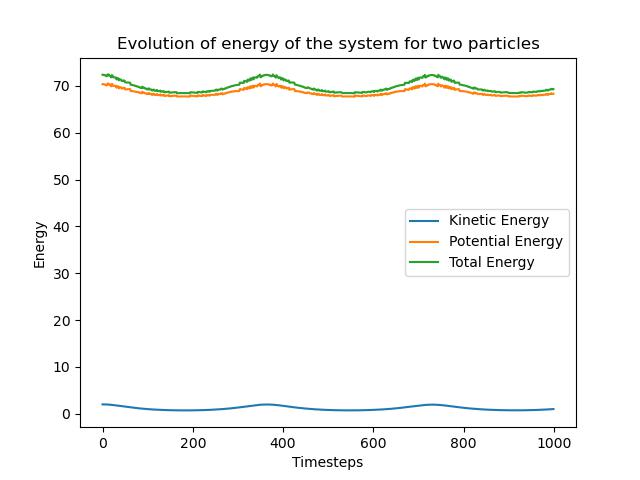
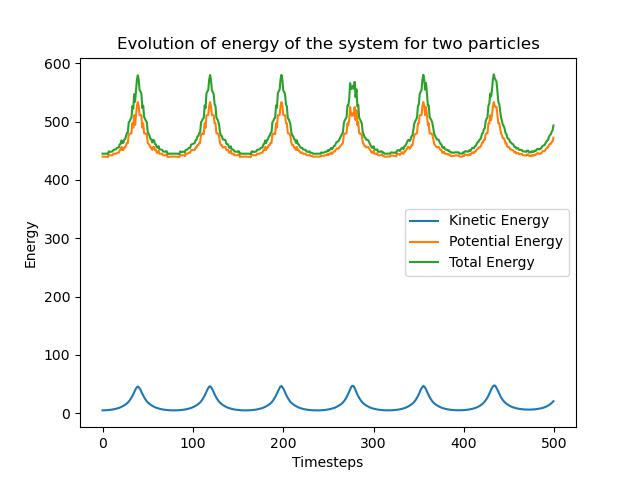
added part 2

diff --git a/Final Project/2_two_particles.py b/Final Project/2_two_particles.py
@@ -1,171 +1,14 @@
 import numpy as np
 import numba as nb
-import time
-import imageio
+from particle_class import *
 from matplotlib import pyplot as plt
 from scipy import fft
 plt.ion()
 
 
-def inbound_array_np(xy,n):
-    '''
-    Applies periodic conditions with numpy arrays.
-    If the position goes out of bound it gets put back at the begining.
-    '''
-    xy[xy<-0.5] = xy[xy <- 0.5] + n
-    xy[xy>=n-0.5] = xy[xy >= n-0.5]-n
-
-def mask_array_np(xy,m,n):
-    '''
-    Mask for non-periodic boundary conditions.
-    If a value goes out of bound, its mass gets reduced to 0.
-    '''
-    for i in range(xy.shape[1]):
-        m[xy[:,i]<-0.5]=0
-        m[xy[:,i]>=n-0.5]=0
-
-@nb.njit(parallel=True)
-def get_grad(xy,pot,grad):
-    '''
-    Function to compute the gradient of an array.
-    It basically uses the slope between neighboring cell sites to create the gradient.
-    Beforehand it takes care of some conditionals involving the position of the particles
-    with respect to the first and last cell in the density (rho) array.
-    '''
-    n=pot.shape[0]
-    for i in nb.prange(xy.shape[0]):
-        if xy[i,0]<0:
-            ix0=n-1
-            ix1=0
-            fx=xy[i,0]+1
-        else:
-            ix0=int(xy[i,0])
-            ix1=ix0+1
-            fx=xy[i,0]-ix0
-            if ix1==n:
-                ix1=0
-        if xy[i,1]<0:
-            iy0=n-1
-            iy1=0
-            fy=xy[i,1]+1
-        else:
-            iy0=int(xy[i,1])
-            iy1=iy0+1
-            fy=xy[i,1]-iy0
-            if iy1==n:
-                iy1=0
-
-        grad[i,0]=(pot[ix1,iy1]-pot[ix0,iy1])*fy+(pot[ix1,iy0]-pot[ix0,iy0])*(1-fy)
-        grad[i,1]=(pot[ix1,iy1]-pot[ix1,iy0])*fx+(pot[ix0,iy1]-pot[ix0,iy0])*(1-fx)
-
-@nb.njit
-def hist2d_wmass(xy,mat,m):
-    '''
-    Creates the histogram for the density (rho) array, 
-    based on the masses and positions of the particles.
-    '''
-    nx=xy.shape[0]
-    for i in range(nx):
-        ix = int(xy[i,0]+0.5)
-        iy = int(xy[i,1]+0.5)
-        if m[i] > 0: #we can set m=0 to flag particles
-            mat[ix,iy]=mat[ix,iy]+m[i]
-
-class particles:
-    def __init__(self,npart=10000,n=1000,soft=1,periodic=True):
-        self.x = np.empty([npart,2])        # Positions
-        self.v = np.empty([npart,2])        # Velocities
-        self.f = np.empty([npart,2])        # Forces
-        self.m = np.empty(npart)            # Masses
-        self.kernel = []                    # Kernel
-        self.kernelft = []                  # FFT of kernel
-        self.npart = npart                  # Number of particles
-        self.ngrid = n                      # Width and height of grid
-
-        if periodic: # Creating array for rho and potential based on the size of the grid
-            self.rho = np.empty([self.ngrid,self.ngrid])
-            self.pot = np.empty([self.ngrid,self.ngrid])
-
-        else:   # Making rho twice the size if not periodic
-            self.rho = np.empty([2*self.ngrid,2*self.ngrid])
-            self.pot = np.empty([2*self.ngrid,2*self.ngrid])
-
-        self.soft = soft            # Softening
-        self.periodic = periodic    # Periodicity boolean
-
-    def two_particles(self):
-        '''
-        Initializes the positions of two particles at the center of the grid 
-        with some opposite velocities.
-        '''
-        n = self.ngrid  # Size of grid
-
-        # Positioning the particles at the center of the plane separated from each other
-        self.x[0] = np.array([n/2, n*0.4])  # Positioned at 40% of the grid (Particle 1)
-        self.x[1] = np.array([n/2, n*0.6])  # Positioned at 60% of the grid (Particle 2)
-        factor = 0.5
-        self.v[0] = np.array([-1, 0])*factor    # Initial velocity (Particle 1)
-        self.v[1] = np.array([1, 0])*factor     # Initial velocity (Particle 2)
-
-        self.m[:] = 1
-
-    def get_kernel(self):
-        '''Create the kernel (and fft of kernel) to convolve with density grid.'''
-        ngrid = self.ngrid
-        soft = self.soft
-        
-        if self.periodic:
-            x=np.fft.fftfreq(ngrid)*ngrid
-            rsqr=np.outer(np.ones(ngrid),x**2)
-            rsqr=rsqr+rsqr.T
-            rsqr[rsqr<soft**2]=soft**2
-            self.kernel=rsqr**-0.5
-        else:
-            # Makes the kernel twice as big for non-periodic BC
-            x=np.fft.fftfreq(ngrid*2)*ngrid*2
-            rsqr=np.outer(np.ones(ngrid*2),x**2)
-            rsqr=rsqr+rsqr.T
-            rsqr[rsqr<soft**2]=soft**2
-            self.kernel=rsqr**-0.5
-
-        self.kernelft=fft.rfft2(self.kernel)    # Fourier transform of kernel
-
-    def get_rho(self):
-        '''Method to get the density in a grid of the particles.'''
-        if self.periodic:
-            # If periodic, give appropriate location to particles that are outside bounds
-            inbound_array_np(self.x,self.ngrid)
-        else:
-            # If not periodic, sets masses to 0, if they're outside the bounds
-            mask_array_np(self.x,self.m,self.ngrid)
-        self.rho[:]=0
-
-        # Creates histogram for density array (rho)
-        hist2d_wmass(self.x,self.rho,self.m)
-    
-    def get_pot(self):
-        '''Method to get the potential using a convolution of kernel and density'''
-        self.get_rho()
-        rhoft=fft.rfft2(self.rho)
-        n=self.ngrid
-        if not(self.periodic):
-            n=n*2
-        self.pot=fft.irfft2(rhoft*self.kernelft,[n,n])
-    
-    def get_forces(self):
-        '''Get the force on every particle using the gradient of the potential.'''
-        get_grad(self.x,self.pot,self.f)
-    
-    def take_step(self,dt=1):
-        # Takes step using leapfrog
-        self.x[:]=self.x[:]+dt*self.v
-        self.get_pot()
-        self.get_forces()
-        self.v[:]=self.v[:]+self.f*dt
-
 
 # Initializing our system with 2 particles
-parts=particles(npart=2,n = 10, soft=1,periodic=True)
+parts=particles(npart=2, n = 100, soft=2 ,periodic=True)
 parts.two_particles()
 
 # Get the kernel
@@ -177,14 +20,14 @@ parts.get_pot()
 rho=parts.rho.copy()
 pot=parts.pot.copy()
 
-osamp=60    
+osamp=600    
 
 
 fig = plt.figure()
 ax = fig.add_subplot(111)
 res=ax.imshow(parts.rho[:parts.ngrid,:parts.ngrid]**0.5)
 
-times = 1000
+times = 500
 
 energies = np.empty([3, times])
 print(parts.m)
@@ -192,11 +35,9 @@ print(parts.m)
 for i in range(times):
 
     for j in range(osamp):
-        parts.take_step(dt=0.01)
+        parts.take_step(dt=0.001)
         res.set_data(parts.rho[:parts.ngrid, :parts.ngrid])
-        print("Forces:", parts.f)
-        #plt.show()
-        #assert(0==1)
+
 
     # Energies
     kin = np.sum(parts.v**2 * parts.m)/2

diff --git a/Final Project/particle_class.py b/Final Project/particle_class.py
@@ -115,6 +115,22 @@ class particles:
         self.v[:] = 0    
         self.m[:] = 1
 
+    def two_particles(self):
+        '''
+        Initializes the positions of two particles at the center of the grid 
+        with some opposite velocities.
+        '''
+        n = self.ngrid  # Size of grid
+
+        # Positioning the particles at the center of the plane separated from each other
+        self.x[0] = np.array([n/2, n*0.4])  # Positioned at 40% of the grid (Particle 1)
+        self.x[1] = np.array([n/2, n*0.6])  # Positioned at 60% of the grid (Particle 2)
+        factor = 0.5
+        self.v[0] = np.array([-1, 0])*factor    # Initial velocity (Particle 1)
+        self.v[1] = np.array([1, 0])*factor     # Initial velocity (Particle 2)
+
+        self.m[:] = 20
+
     def get_kernel(self):
         '''Create the kernel (and fft of kernel) to convolve with density grid.'''
         ngrid = self.ngrid

diff --git a/Final Project/1_single_particle.py b/Final Project/1_single_particle.py
@@ -31,7 +31,7 @@ y_data = np.empty(500)
 for i in range(500):
 
     for j in range(osamp):
-        parts.take_step(dt=0.02)
+        parts.take_step(dt=0.01)
 
     print("Step", i)
     x_data[i] = parts.x[0, 0]

diff --git a/Final Project/final_project.md b/Final Project/final_project.md
@@ -28,23 +28,24 @@ An interesting observation we can make with this is the energy of the system at 
 
 ![2_two_particles](figs/2particles_energy.jpg)
 
-It appears as though the energy is somewhat constant over the long term, however, it seems to be oscillating through the simulation, this is somewhat surprizing and I have a hard time coming up with an explanation...
+It appears as though the average energy is somewhat constant over the long term, however, it seems to be oscillating through the simulation, this is somewhat surprizing and I have a hard time coming up with an explanation...
 
-It is worth pointing out that for smaller grid sizes there is one somewhat undesirable feature of the simulation is the fast that the particles keep drifting. I think this might be caused by the fact that the potential exists at the center of each cell in a grid which does not exactly correspond to the location of the particles.
-
-Initially I was wondering wether this might be caused by the periodic boundary conditions, but after checking with and without periodic boundary conditions, the same effect was observed in both case, meaning that there it's unlikely due to that.
+It is worth pointing out that for smaller grid sizes there is one somewhat undesirable feature of the simulation is the fact that the particles keep drifting. I think this might be caused by the fact that the potential exists at the center of each cell in a grid which does not exactly correspond to the location of the particles, and the effect is more significant for larger cell sizes.
 
 ## Part 3
 
-Here we simulate periodic and non-periodic systems of $n$ particles (here $n$ is about 600, in both cases).
+Here we simulate periodic and non-periodic systems of $n$ particles (here $n$ is 200000, in both cases).
 
 ![2_two_particles](gifs/3_periodic.gif)
 
 ![2_two_particles](gifs/3_non_periodic.gif)
 
+We see that for the periodic case, clusters begin to form everywhere on the grid. For the non-periodic case, since the only force felt is towards the center of the grid, we see the particles collapse towards the center.
+
 If we plot the total energy as a function of time, we obtain
 
 ![2_two_particles](figs/per_vs_nonper.jpg)
+
 
 ## Part 4
 
